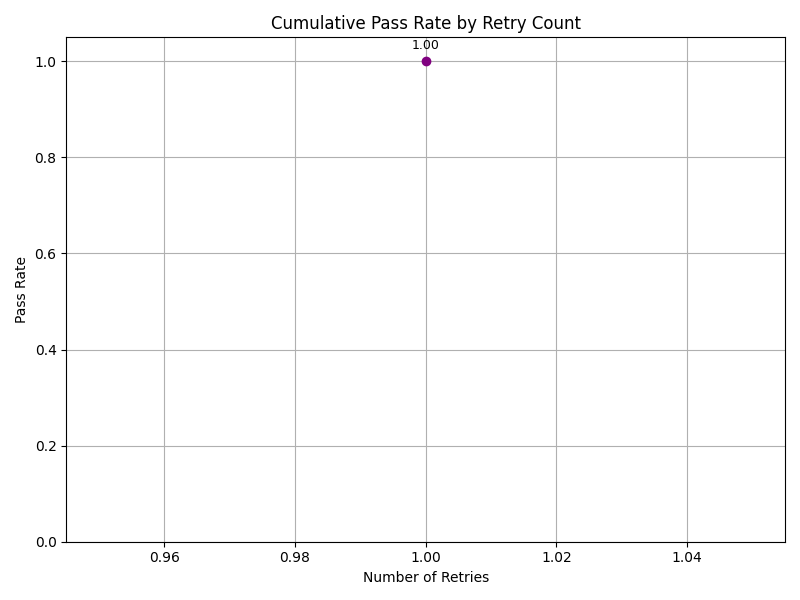
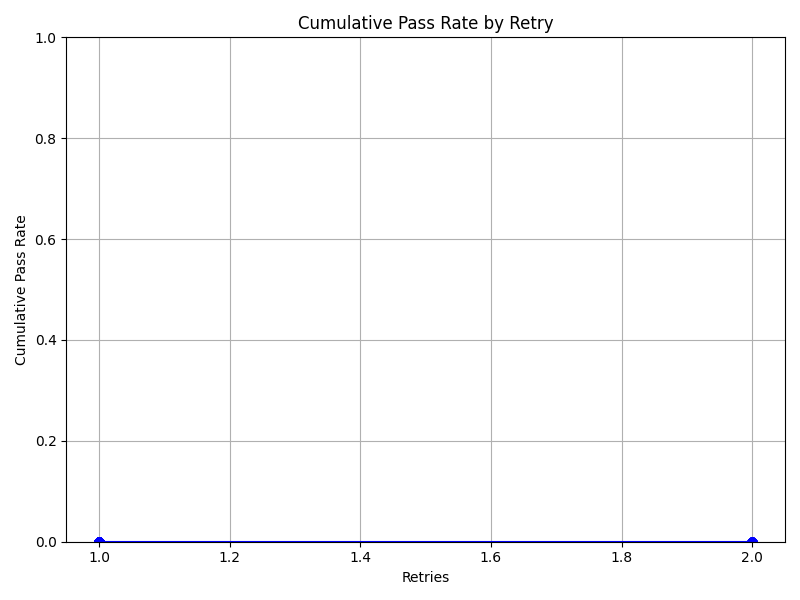
Update log parser and save latest test results JSON

diff --git a/analysis/scripts/analyze_logs.py b/analysis/scripts/analyze_logs.py
@@ -1,12 +1,12 @@
-import json
 import os
-import matplotlib.pyplot as plt
+import re
 import pandas as pd
+import matplotlib.pyplot as plt
 
 # ==========================
 # CONFIGURATION
 # ==========================
-LOG_DIR = "analysis/logs"        # Folder containing your JSON log files
+LOG_DIR = "analysis/logs"        # Folder containing your log files
 OUTPUT_CSV = "analysis/output/retry_analysis.csv"
 OUTPUT_PLOTS_DIR = "analysis/output/plots"
 
@@ -16,34 +16,31 @@ os.makedirs(OUTPUT_PLOTS_DIR, exist_ok=True)
 # ==========================
 # PARSING LOG FILES
 # ==========================
-def parse_log_file(file_path):
-    """
-    Parses a single JSON log file for retry analysis.
-    Expects JSON array of test results:
-    [
-        {"test_name": "test_1", "status": "PASS", "retries": 1, "duration": 2.5},
-        ...
-    ]
-    """
-    with open(file_path, "r") as f:
-        data = json.load(f)
-    parsed = []
-    for entry in data:
-        parsed.append({
-            "test_name": entry.get("test_name"),
-            "status": entry.get("status"),
-            "retries": entry.get("retries", 0),
-            "duration": entry.get("duration", 0.0)
-        })
-    return parsed
-
-# Aggregate all logs
 all_logs = []
+
+# Regex to extract info from lines like:
+# 2025-08-23 08:18:00,466 INFO  com.retrythesis.tests.RetryAnalyzer - Retrying test 'testRandomFlaky' | Status: FAIL | Attempt: 1/2 | Duration: 23 ms
+log_pattern = re.compile(
+    r"Retrying test '(?P<test_name>.+?)' \| Status: (?P<status>PASS|FAIL) \| Attempt: (?P<attempt>\d+)/\d+ \| Duration: (?P<duration>[\d.]+) ms"
+)
+
 for filename in os.listdir(LOG_DIR):
-    if filename.endswith(".json"):
+    if filename.endswith(".log"):
         filepath = os.path.join(LOG_DIR, filename)
-        parsed = parse_log_file(filepath)
-        all_logs.extend(parsed)
+        with open(filepath, "r") as f:
+            for line in f:
+                match = log_pattern.search(line)
+                if match:
+                    all_logs.append({
+                        "test_name": match.group("test_name"),
+                        "status": match.group("status"),
+                        "retries": int(match.group("attempt")),
+                        "duration": float(match.group("duration"))
+                    })
+
+if not all_logs:
+    print("No log data found.")
+    exit()
 
 # Convert to DataFrame
 df = pd.DataFrame(all_logs)
@@ -62,7 +59,6 @@ plt.title("Retry Distribution Across Tests")
 plt.xlabel("Number of Retries")
 plt.ylabel("Number of Tests")
 plt.xticks(rotation=0)
-# Add counts on top of bars
 for bar in bars:
     plt.text(bar.get_x() + bar.get_width()/2, bar.get_height(), str(int(bar.get_height())),
              ha='center', va='bottom')
@@ -81,7 +77,6 @@ plt.title("Test Status by Retry Count")
 plt.xlabel("Number of Retries")
 plt.ylabel("Number of Tests")
 plt.xticks(rotation=0)
-# Annotate stacked bars
 for i, row in enumerate(status_retry.values):
     bottom = 0
     for val in row:
@@ -96,16 +91,14 @@ print("✅ Status by retry plot saved.")
 # FIGURE 3: Duration vs Retries
 # ==========================
 plt.figure(figsize=(8,6))
-box = df.boxplot(column='duration', by='retries', grid=False, patch_artist=True,
-                 boxprops=dict(facecolor='lightblue'))
-plt.title("Test Duration by Retry Count")
-plt.suptitle("")  # Remove default pandas title
-plt.xlabel("Number of Retries")
-plt.ylabel("Duration (s)")
-# Annotate median on each box
-medians = df.groupby('retries')['duration'].median()
-for i, median in enumerate(medians):
-    plt.text(i+1, median, f'{median:.2f}', ha='center', va='bottom', fontsize=9, fontweight='bold')
+avg_duration = df.groupby('retries')['duration'].mean()
+plt.bar(avg_duration.index, avg_duration.values, color='orange')
+plt.title("Average Duration vs Retries")
+plt.xlabel("Retries")
+plt.ylabel("Average Duration (ms)")
+plt.xticks(rotation=0)
+for i, val in enumerate(avg_duration.values):
+    plt.text(avg_duration.index[i], val, f"{val:.3f}", ha='center', va='bottom')
 plt.tight_layout()
 plt.savefig(os.path.join(OUTPUT_PLOTS_DIR, "duration_by_retry.png"))
 plt.close()
@@ -114,17 +107,18 @@ print("✅ Duration by retry plot saved.")
 # ==========================
 # FIGURE 4: Cumulative Pass Rate
 # ==========================
-cumulative_df = df.groupby('retries')['status'].apply(lambda x: (x=='PASS').sum()/len(x)).reset_index()
 plt.figure(figsize=(8,6))
-plt.plot(cumulative_df['retries'], cumulative_df['status'], marker='o', color='purple')
-plt.title("Cumulative Pass Rate by Retry Count")
-plt.xlabel("Number of Retries")
-plt.ylabel("Pass Rate")
-plt.ylim(0,1.05)
+df_sorted = df.sort_values('retries')
+df_sorted['cumulative_pass'] = df_sorted['status'].eq('PASS').cumsum()
+df_sorted['cumulative_total'] = range(1, len(df_sorted)+1)
+df_sorted['cumulative_pass_rate'] = df_sorted['cumulative_pass'] / df_sorted['cumulative_total']
+
+plt.plot(df_sorted['retries'], df_sorted['cumulative_pass_rate'], marker='o', color='blue')
+plt.title("Cumulative Pass Rate by Retry")
+plt.xlabel("Retries")
+plt.ylabel("Cumulative Pass Rate")
+plt.ylim(0,1)
 plt.grid(True)
-# Annotate each point
-for x, y in zip(cumulative_df['retries'], cumulative_df['status']):
-    plt.text(x, y+0.02, f"{y:.2f}", ha='center', va='bottom', fontsize=9)
 plt.tight_layout()
 plt.savefig(os.path.join(OUTPUT_PLOTS_DIR, "cumulative_pass_rate.png"))
 plt.close()

diff --git a/convert_log_to_json.py b/convert_log_to_json.py
@@ -3,26 +3,27 @@ import json
 import os
 from datetime import datetime
 
+# Input log and output directory
 LOG_FILE = "test-retry.log"
 OUTPUT_DIR = "analysis/logs"
 os.makedirs(OUTPUT_DIR, exist_ok=True)
 
+# Data structure: store all attempts per test
 tests = {}
 
 # Regex patterns
 retry_pattern = re.compile(
     r"(\d{4}-\d{2}-\d{2} \d{2}:\d{2}:\d{2},\d{3}).*Retrying test '(\S+)' \| Attempt: (\d+)"
 )
-pass_pattern = re.compile(
-    r"(\d{4}-\d{2}-\d{2} \d{2}:\d{2}:\d{2},\d{3}).*Test '(\S+)' PASSED"
-)
-fail_pattern = re.compile(
-    r"(\d{4}-\d{2}-\d{2} \d{2}:\d{2}:\d{2},\d{3}).*Test '(\S+)' FAILED"
+result_pattern = re.compile(
+    r"(\d{4}-\d{2}-\d{2} \d{2}:\d{2}:\d{2},\d{3}).*Final Result \| Test: (\S+) \| Status: (PASS|FAIL)"
 )
 
+# Parse timestamp from log
 def parse_timestamp(ts_str):
     return datetime.strptime(ts_str, "%Y-%m-%d %H:%M:%S,%f")
 
+# Read log file
 with open(LOG_FILE, "r") as f:
     for line in f:
         # Retry attempt
@@ -32,51 +33,48 @@ with open(LOG_FILE, "r") as f:
             ts = parse_timestamp(ts)
             attempt = int(attempt)
             if test_name not in tests:
-                tests[test_name] = {"retries": attempt, "start_time": ts, "end_time": ts, "status": "PASS"}
-            else:
-                tests[test_name]["retries"] = max(tests[test_name]["retries"], attempt)
-                tests[test_name]["end_time"] = ts
+                tests[test_name] = []
+            # Store retry as failed attempt
+            tests[test_name].append({
+                "type": "RETRY",
+                "attempt": attempt,
+                "timestamp": ts,
+                "status": "FAIL"
+            })
             continue
-        
-        # PASS
-        pass_match = pass_pattern.search(line)
-        if pass_match:
-            ts, test_name = pass_match.groups()
-            ts = parse_timestamp(ts)
-            if test_name in tests:
-                tests[test_name]["status"] = "PASS"
-                tests[test_name]["end_time"] = ts
-            else:
-                tests[test_name] = {"retries": 0, "start_time": ts, "end_time": ts, "status": "PASS"}
-            continue
-        
-        # FAIL
-        fail_match = fail_pattern.search(line)
-        if fail_match:
-            ts, test_name = fail_match.groups()
-            ts = parse_timestamp(ts)
-            if test_name in tests:
-                tests[test_name]["status"] = "FAIL"
-                tests[test_name]["end_time"] = ts
-            else:
-                tests[test_name] = {"retries": 0, "start_time": ts, "end_time": ts, "status": "FAIL"}
 
-# Convert to list with duration
+        # Final result (PASS/FAIL)
+        result_match = result_pattern.search(line)
+        if result_match:
+            ts, test_name, status = result_match.groups()
+            ts = parse_timestamp(ts)
+            if test_name not in tests:
+                tests[test_name] = []
+            attempt = len(tests[test_name]) + 1
+            tests[test_name].append({
+                "type": "FINAL",
+                "attempt": attempt,
+                "timestamp": ts,
+                "status": status
+            })
+            continue
+
+# Convert to flat list for JSON/CSV
 output = []
-for name, info in tests.items():
-    try:
-        duration = (info["end_time"] - info["start_time"]).total_seconds()
-    except:
-        duration = 0.0
-    output.append({
-        "test_name": name,
-        "status": info.get("status", "PASS"),
-        "retries": info.get("retries", 0),
-        "duration": round(duration, 2)
-    })
+for test_name, attempts in tests.items():
+    start_time = attempts[0]["timestamp"] if attempts else None
+    for attempt in attempts:
+        duration = (attempt["timestamp"] - start_time).total_seconds() if start_time else 0.0
+        output.append({
+            "test_name": test_name,
+            "status": attempt["status"],
+            "retries": attempt["attempt"],
+            "duration": round(duration, 2)
+        })
 
 # Save JSON
-with open(os.path.join(OUTPUT_DIR, "tests.json"), "w") as f:
+json_file = os.path.join(OUTPUT_DIR, "tests.json")
+with open(json_file, "w") as f:
     json.dump(output, f, indent=4)
 
-print(f"✅ Converted {len(output)} tests to JSON in {OUTPUT_DIR}/tests.json")
+print(f"✅ Converted {len(output)} test attempts to JSON in {json_file}")

diff --git a/src/test/java/com/retrythesis/tests/FlakyTest.java b/src/test/java/com/retrythesis/tests/FlakyTest.java
@@ -1,24 +1,24 @@
 package com.retrythesis.tests;
 
-import org.testng.Assert;
+import org.testng.ITestResult;
+import org.testng.annotations.AfterMethod;
 import org.testng.annotations.Test;
-import org.apache.log4j.Logger;  // Import log4j
+import org.apache.log4j.Logger;
 
 public class FlakyTest {
-
-    // Create a logger instance
     static Logger logger = Logger.getLogger(FlakyTest.class);
 
     @Test(retryAnalyzer = RetryAnalyzer.class)
     public void testRandomFlaky() {
-    	System.out.println(System.getProperty("log4j.configuration"));
-    	
-    	
-        double randomValue = Math.random(); // generates value between 0.0 and 1.0
+        double value = Math.random();
+        double threshold = 0.5;  // Adjusted for balanced PASS/FAIL outcomes
+        logger.info("Generated value: " + value + " | Threshold: " + threshold);
+        org.testng.Assert.assertTrue(value > threshold, "Value did not meet threshold");
+    }
 
-        // Log instead of just printing
-        logger.info("Generated value: " + randomValue);
-
-        Assert.assertTrue(randomValue > 0.5, "Flaky test failed: value <= 0.5");
+    @AfterMethod
+    public void logTestResult(ITestResult result) {
+        String status = result.isSuccess() ? "PASS" : "FAIL";
+        logger.info("Final Result | Test: " + result.getName() + " | Status: " + status);
     }
 }
